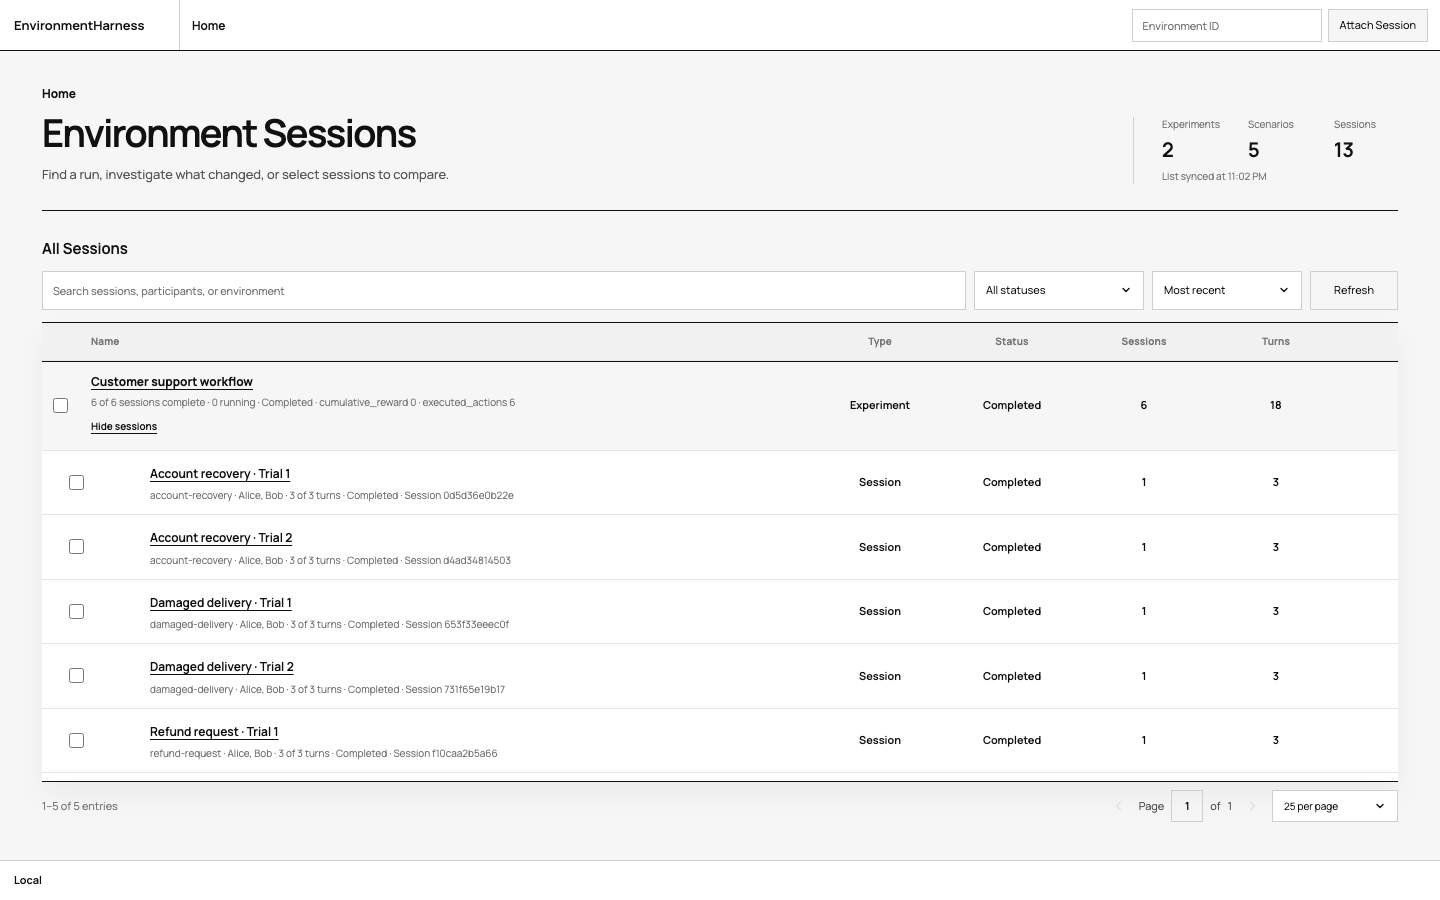
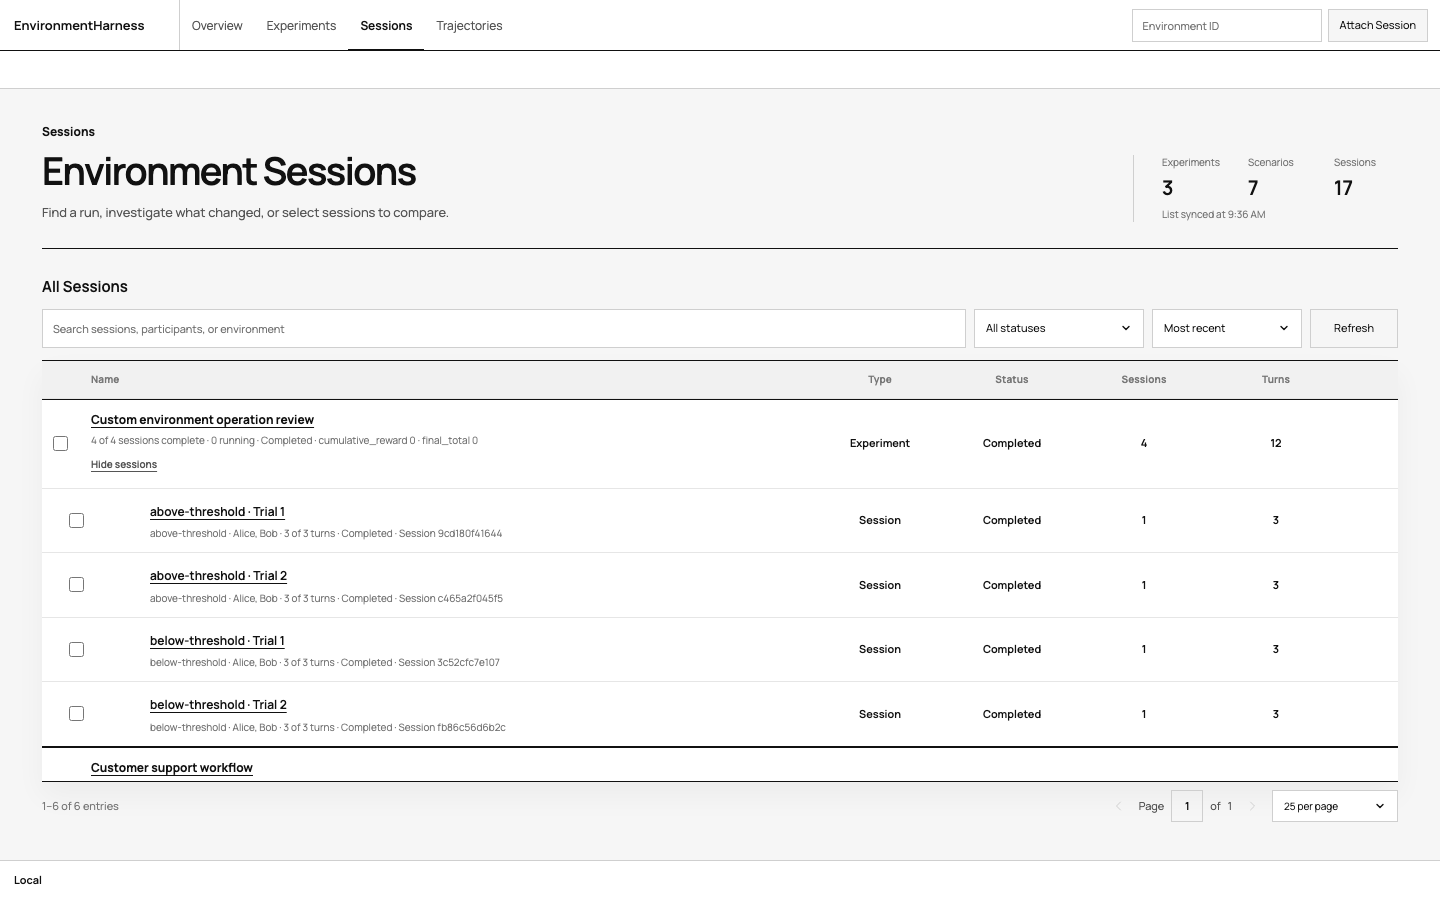
docs: recapture the viewer screenshots and tighten both READMEs
The four README assets showed the pre-rewrite viewer — a single Home
breadcrumb root, the old per-resource tab strips, and a separate Reports tab.
README.md renders on PyPI, so they were publicly wrong. Recaptured at the
documented 1440x900 viewport from the documented stores, with a clean browser
console, and they now show the four global destinations, the contextual left
navigation, and ownership ancestry that stops at the parent. The Progression
image uses a series recorded on 8 of 8 turns rather than the 1-of-8 default,
which rendered an empty chart.

Two stale UI details surfaced while capturing, both now fixed and asserted:

- The collection eyebrow always read "Overview", so the Sessions index said
  "Overview" above "Environment Sessions" while the Sessions tab was
  highlighted. It now names the destination it belongs to.
- A text button labelled "Reports" navigated to Configuration, left over from
  folding the Reports tab into Overview. Relabelled.

Both READMEs now describe the current state rather than narrating a
transition. README.md drops the "run the example, then serve --open" block
that appeared five times, keeps it once in the quickstart, and corrects two
claims the IA rewrite invalidated — session Overview holds scores and
findings, and Configuration holds the frozen experiment.

The TypeScript README was substantially wrong: `client.list()`,
`exportTrajectorySnapshot()`, and `trajectorySourceStatus()` do not exist, and
[…]

diff --git a/packages/typescript/src/app.ts b/packages/typescript/src/app.ts
@@ -1251,7 +1251,8 @@ function showCollection(destination: Destination, heading: string, description: 
   setDestination(destination);
   renderBreadcrumbs();
   paintCollection(panels);
-  el('home-eyebrow').textContent = 'Overview';
+  // The eyebrow names the destination the page belongs to, matching the highlighted tab.
+  el('home-eyebrow').textContent = contextLabel(destination);
   el('home-title').textContent = heading;
   el('home-description').textContent = description;
   el('home-list-title').textContent = 'All Sessions';
@@ -2785,7 +2786,7 @@ el('run-comparison').onclick = () => void attempt(async () => {
 });
 el('copy-id').onclick = () => void attempt(async () => {if (environment) {await navigator.clipboard.writeText(environment.id); message('Environment ID copied.');}});
 el('reports-progression').onclick = () => void attempt(() => setSessionTab('progression'));
-el('reports-records').onclick = () => void attempt(() => setSessionTab('configuration'));
+el('reports-configuration').onclick = () => void attempt(() => setSessionTab('configuration'));
 el<HTMLInputElement>('compare-turn-start').oninput = renderProgression;
 el<HTMLInputElement>('compare-turn-end').oninput = renderProgression;
 el<HTMLSelectElement>('turn-series-select').onchange = renderProgression;

diff --git a/src/environment_harness/viewer/app.js b/src/environment_harness/viewer/app.js
@@ -1424,7 +1424,8 @@ function showCollection(destination, heading, description, panels) {
     setDestination(destination);
     renderBreadcrumbs();
     paintCollection(panels);
-    el('home-eyebrow').textContent = 'Overview';
+    // The eyebrow names the destination the page belongs to, matching the highlighted tab.
+    el('home-eyebrow').textContent = contextLabel(destination);
     el('home-title').textContent = heading;
     el('home-description').textContent = description;
     el('home-list-title').textContent = 'All Sessions';
@@ -3149,7 +3150,7 @@ el('copy-id').onclick = () => void attempt(async () => { if (environment) {
     message('Environment ID copied.');
 } });
 el('reports-progression').onclick = () => void attempt(() => setSessionTab('progression'));
-el('reports-records').onclick = () => void attempt(() => setSessionTab('configuration'));
+el('reports-configuration').onclick = () => void attempt(() => setSessionTab('configuration'));
 el('compare-turn-start').oninput = renderProgression;
 el('compare-turn-end').oninput = renderProgression;
 el('turn-series-select').onchange = renderProgression;

diff --git a/src/environment_harness/viewer/index.html b/src/environment_harness/viewer/index.html
@@ -224,7 +224,7 @@
               <div><h2>Scores and Findings</h2><p>A concise view of what evaluation returned.</p></div>
               <div class="overview-heading-actions">
                 <button id="reports-progression" type="button" class="text-button">Progression</button>
-                <button id="reports-records" type="button" class="text-button">Reports</button>
+                <button id="reports-configuration" type="button" class="text-button">Configuration</button>
               </div>
             </div>
             <div id="reports"><p class="muted">No environment session selected.</p></div>

diff --git a/README.md b/README.md
@@ -40,15 +40,20 @@ environment-harness --store ./environment-sessions quickstart --turns 3
 environment-harness --store ./environment-sessions serve --open
 ```
 
-The demo creates two experiments that expand five scenarios into 10 grouped environment sessions,
-plus three standalone sessions. It records different participant rosters, turn counts, score reports,
-a blocked invalid action, a finding, a checkpoint, and an artifact so every main viewer page has
-useful data. It requires no account, model API key, or paid service. None of its synthetic values
-measure model quality or safety.
+No account, model API key, or paid service. The demo expands five scenarios into 10 grouped
+environment sessions plus three standalone ones, with varied participant rosters, score reports, a
+blocked action, a finding, a checkpoint, and an artifact, so every viewer page has real data. None
+of its synthetic values measure model quality or safety.
 
-`quickstart` writes durable evidence to `./environment-sessions`. `serve` opens that same store through an authenticated API and read-only viewer at `http://127.0.0.1:8765`. The loopback viewer receives read-only local access automatically; `--open` only launches the browser. Refreshing the page or restarting the server does not remove recorded progress. API clients still use an explicit credential from `environment-harness token`. The server binds only to your computer and does not deploy or publish the environment sessions. Press `Ctrl+C` to stop it.
+`quickstart` writes durable evidence to `./environment-sessions`; `serve` opens that same store at
+`http://127.0.0.1:8765`. The server binds to loopback only and publishes nothing. The browser
+receives read-only access automatically — `--open` just launches it — while API clients need an
+explicit credential from `environment-harness token`. Refreshing or restarting loses nothing.
 
-The running service publishes its generated OpenAPI document at `/openapi.json` and interactive reference at `/docs`. The repository checks the committed [`contracts/openapi.json`](contracts/openapi.json) and versioned JSON Schemas in [`contracts/`](contracts/) for drift. [`docs/API-REFERENCE.md`](docs/API-REFERENCE.md) documents endpoints and examples; [`docs/PROTOCOL.md`](docs/PROTOCOL.md) defines the authority, lifecycle, activity-stream, recovery, and evidence semantics that OpenAPI alone cannot express.
+The service publishes OpenAPI at `/openapi.json` and an interactive reference at `/docs`.
+[API reference](docs/API-REFERENCE.md) covers endpoints and examples;
+[Protocol](docs/PROTOCOL.md) covers the authority, lifecycle, recovery, and evidence semantics
+OpenAPI cannot express.
 
 ![The EnvironmentHarness Sessions index showing grouped experiments and their environment sessions](https://raw.githubusercontent.com/kimpton-ai/environment-harness/main/docs/assets/environment-harness-home.png)
 
@@ -93,19 +98,19 @@ environment_session = harness.run(
 print(environment_session.id, environment_session.status)
 ```
 
-Open the recorded environment session with the same store:
+Open it with `environment-harness --store .local/my-environment serve --open`.
 
-```sh
-environment-harness --store .local/my-environment serve --open
-```
+`implementation` is a versioned identifier recorded with the evidence, so a resumed session cannot
+silently run different agent code. Your integration owns prompts, model providers, tools,
+credentials, and spending limits. External JSON programs use `CommandAgent` — see
+[examples/custom_agent.py](examples/custom_agent.py).
 
-The `implementation` string is a versioned identifier recorded with the evidence so a resumed environment session cannot silently run different agent code. Your integration keeps ownership of prompts, model providers, tools, credentials, and spending limits. External JSON programs can use `CommandAgent`; see the [complete source example](https://github.com/kimpton-ai/environment-harness/blob/main/examples/custom_agent.py).
-
-The local Python API and command subprocess are trusted interfaces, not operating-system security sandboxes. Run hostile programs in an isolated backend with explicitly scoped network access.
+The local Python API and command subprocess are trusted interfaces, not OS sandboxes. Run untrusted
+programs in an isolated backend with scoped network access.
 
 ## Run an experiment
 
-`EnvironmentHarness` accepts factories so every environment session receives a fresh environment and fresh agents. A `Scenario[T]` freezes its validated input, optional JSON reference, and metadata. Experiments expand one frozen configuration across every scenario and trial while enforcing shared concurrency limits.
+`EnvironmentHarness` builds a fresh environment and fresh agents for every session. A `Scenario[T]` freezes its validated input, optional JSON reference, and metadata. An experiment expands one frozen configuration across every scenario and trial under a shared concurrency limit.
 
 ```python
 from environment_harness import EnvironmentHarness, Scenario
@@ -132,16 +137,13 @@ result = harness.experiment(
 print(result.completed, result.total)
 ```
 
-Run the complete example and open the same store to review its experiment and child environment sessions:
+[examples/typed_experiment.py](examples/typed_experiment.py) runs this end to end and prints the
+experiment ID, every session ID, scenario and trial labels, deterministic seeds, and the viewer
+path.
 
-```sh
-python examples/typed_experiment.py --store .local/typed-experiment --turns 3
-environment-harness --store .local/typed-experiment serve --open
-```
-
-The example prints the experiment ID, every environment-session ID, scenario/trial labels, deterministic seeds, and the viewer path. See [examples/typed_experiment.py](examples/typed_experiment.py) for the copyable source.
-
-Use `experiment.start()`, `wait()`, `stop()`, and explicit `resume()` for lifecycle control. Standalone environment sessions use `harness.start(...)` or `harness.run(...)`. The low-level coordinator, explicit `ExperimentSpec`, and branching workflow remain available from `environment_harness.advanced`.
+Use `experiment.start()`, `wait()`, `stop()`, and `resume()` for lifecycle control; standalone
+sessions use `harness.start(...)` or `harness.run(...)`. The low-level coordinator, explicit
+`ExperimentSpec`, and branching workflow live in `environment_harness.advanced`.
 
 ## Extend an environment
 
@@ -151,46 +153,34 @@ also needs imperative work such as controlling a game, reading a simulator, or c
 Runtime clients and credentials stay on the Python object; only the operation's name, version, and
 JSON configuration are frozen into evidence.
 
-The complete [custom environment experiment](examples/custom_environment_experiment.py) is a
-runnable extension example. It defines an operation, interleaves it with normal turns through the
-typed `SessionRunner` seam, runs two scenarios across two trials, and records comparable metrics plus
-evidence-linked findings for every environment session.
-
-```sh
-python examples/custom_environment_experiment.py \
-  --store .local/custom-environment-experiment \
-  --turns 3
-environment-harness \
-  --store .local/custom-environment-experiment \
-  serve --open
-```
-
-Open the experiment path printed by the example. The experiment page shows the configuration shared
-by all four environment sessions, including the supplied operation and scoring version.
+[examples/custom_environment_experiment.py](examples/custom_environment_experiment.py) is the
+runnable version: it defines an operation, interleaves it with normal turns through the typed
+`SessionRunner` seam, runs two scenarios across two trials, and records comparable metrics and
+evidence-linked findings. Open the experiment path it prints — that page shows the configuration
+shared by all four sessions, including the operation and scoring version.
 
 ![EnvironmentHarness experiment page showing frozen execution, environment, evaluation, and participant configuration](https://raw.githubusercontent.com/kimpton-ai/environment-harness/main/docs/assets/environment-harness-experiment.png)
 
-A session's Overview shows its frozen configuration, Turns describes operation receipts alongside
-agent and environment evidence, and Progression plots recorded signals over the selected turn range.
+A session's contextual navigation is Overview, Turns, Progression, Trajectory, and Configuration.
+Overview summarizes versioned scores, uncertainty, and evidence-linked findings; Turns shows
+operation receipts alongside agent and environment evidence; Progression plots recorded signals
+across the selected turn range; Configuration holds the frozen experiment and lineage.
 
 ![EnvironmentHarness Progression page showing a recorded signal across eight turns](https://raw.githubusercontent.com/kimpton-ai/environment-harness/main/docs/assets/environment-harness-progression.png)
 
-Reports summarizes versioned scores, uncertainty, and evidence-linked findings.
+![EnvironmentHarness session Overview showing versioned metrics, uncertainty, and findings](https://raw.githubusercontent.com/kimpton-ai/environment-harness/main/docs/assets/environment-harness-reports.png)
 
-![EnvironmentHarness session report showing versioned metrics and uncertainty](https://raw.githubusercontent.com/kimpton-ai/environment-harness/main/docs/assets/environment-harness-reports.png)
-
-The same operation class works in a standalone environment session or a grouped experiment;
-grouping is an orchestration choice, not a different environment type. Start with the
-[environment authoring guide](docs/AUTHORING.md), then use the
+One operation class works in a standalone session or a grouped experiment — grouping is an
+orchestration choice, not a different environment type. See
+[Environment authoring](docs/AUTHORING.md), and the
 [external simulator example](examples/external_environment_experiment.py) when your implementation
 owns a long-lived process or engine connection.
 
 ## Inspect and export trajectories
 
-Environment sessions keep their existing append-only evidence journal. A trajectory is a portable,
-digest-bound view of that trace; it is not another writer. Pauses and resumes appear as causally
-linked execution segments, while collection, execution, termination, and verified outcome remain
-independent states.
+Every session writes an append-only evidence journal. A trajectory is a portable, digest-bound view
+of that journal, not a second writer. Pauses and resumes become causally linked execution segments,
+and collection, execution, termination, and verified outcome are four independent states.
 
 ```python
 trajectory = environment_session.trajectory()
@@ -203,28 +193,22 @@ The in-process SDK is a trusted local interface and needs no credential. Remote 
 an opaque bearer credential; the server resolves it to one of its fixed admin, viewer, or
 participant policies. See [Authentication](docs/AUTHENTICATION.md).
 
-The same interface accepts hash-chained historical records from a namespaced external source.
-Identical retries are idempotent, conflicting identities fail, and source health exposes the
-acknowledged position/hash, backlog, gaps, and capture failures. See
-[Trajectories and historical evidence](docs/TRAJECTORIES.md) for the Python, CLI, and authenticated
-HTTP workflow.
+The same interface imports hash-chained historical records from a namespaced external source.
+Identical retries are idempotent, conflicting identities fail, and source health reports the
+acknowledged position and hash, backlog, gaps, and capture failures. See
+[Trajectories](docs/TRAJECTORIES.md) for the Python, CLI, and HTTP workflow.
 
-Run the complete synthetic walkthrough to record a multi-segment native session, import a separate
-historical source, finalize its independent states, freeze it, and stream the snapshot:
-
-```sh
-python examples/trajectory_walkthrough.py --store .local/trajectory-walkthrough
-environment-harness --store .local/trajectory-walkthrough serve --open
-```
+[examples/trajectory_walkthrough.py](examples/trajectory_walkthrough.py) records a multi-segment
+native session, imports a historical source, finalizes its independent states, freezes it, and
+streams the snapshot.
 
 Training datasets are immutable ordered snapshot selections and require complete, terminal,
 training-entitled evidence with resolved reward chains. Trainer instances are injected locally;
 the browser server never executes them. See [Frozen datasets and local training integrations](docs/TRAINING.md).
 
-Decisions are recorded as evidence here, but the decision runtime is not. `decision.requested` and
-`decision.selected` are core record types with a frozen minimum payload and zero/one/many operation
-links; the selector runtime, candidate registry, and optional adapters are separately owned and are
-not part of this release. See [Decision runtime](docs/DECISION-RUNTIME.md).
+`decision.requested` and `decision.selected` are core record types with a fixed minimum payload and
+zero, one, or many operation links. The selector runtime that produces them is separately owned and
+is not part of this package. See [Decision runtime](docs/DECISION-RUNTIME.md).
 
 ## Scope of this SDK
 
@@ -234,10 +218,9 @@ service — and nothing above it. Private suppliers, marketplace behavior, catal
 tenancy, billing, supplier settlement, hosted trainer orchestration, GPU allocation, deployment
 state, credentials, and customer data are not in this package and are not SDK contracts.
 
-An embedding product authenticates its own users and calls the trusted administrative seam in
-process; EnvironmentHarness owns only the credential's policy and constraints. Adopting these
-contracts may require a downstream pin, adapter, or intentional breaking migration, and product
-storage or APIs do not become SDK contracts merely to avoid that migration. See
+An embedding product authenticates its own users and calls the in-process administrative seam;
+EnvironmentHarness owns only the credential's policy and constraints. Product storage and APIs do
+not become SDK contracts. See
 [Authentication](docs/AUTHENTICATION.md) and [Compatibility](docs/COMPATIBILITY.md).
 
 ## Documentation

diff --git a/packages/typescript/README.md b/packages/typescript/README.md
@@ -1,37 +1,67 @@
 # EnvironmentHarness client
 
-Typed HTTP client for an EnvironmentHarness supplier service. This package uses the same versioned contracts as the Python SDK.
+Typed HTTP client for an EnvironmentHarness service, built on the same versioned contracts as the
+Python SDK.
 
-Install the `environment-harness-client-0.2.4-rc.2.tgz` asset from the GitHub release with `npm install ./environment-harness-client-0.2.4-rc.2.tgz`. A registry publication is not required.
+## Install
+
+Download the `environment-harness-client-0.2.4-rc.2.tgz` asset from the GitHub release, then:
+
+```sh
+npm install ./environment-harness-client-0.2.4-rc.2.tgz
+```
+
+There is no registry publication.
+
+## Use
 
 ```ts
 import { EnvironmentClient } from '@environment-harness/client';
 
-const client = new EnvironmentClient('http://127.0.0.1:8765', process.env.ENVIRONMENT_HARNESS_TOKEN!, true);
-const environments = await client.list({limit: 100});
+const client = new EnvironmentClient(
+  'http://127.0.0.1:8765',
+  process.env.ENVIRONMENT_HARNESS_TOKEN!,
+  true,                       // explicitly permit a loopback HTTP endpoint
+);
+
+const sessions = await client.sessions({ limit: 100 });
+const session = await client.session(sessions.items[0].metadata.id);
 ```
 
-The third argument explicitly permits a local HTTP endpoint. Use HTTPS for remote services. Keep credentials outside source control and public browser bundles. The service enforces credential scope. The client does not restore arbitrary agent processes or qualify hosted execution.
+Use HTTPS for anything remote. Keep credentials out of source control and browser bundles; the
+server enforces credential scope regardless.
 
-Portable trajectory reads use `trajectories()`, `trajectory()`, and cursor-paged
-`trajectoryRecords()`. `trajectorySourceStatus()` is available in read-only deployments; source
-registration, ingestion, and status mutation require an explicitly configured server.
-`trajectorySnapshots()` lists the immutable boundaries shown by the viewer. Snapshot and dataset
+## Surface
+
+| Area | Methods |
+| --- | --- |
+| Resources | `experiments()`, `experiment()`, `scenarioSets()`, `sessions()`, `session()`, `policies()` |
+| Participants | `observe()`, `submit()`, `credentials()` — issues a credential scoped to one session, participant, and generation |
+| Lifecycle | `advance()` resolves at most one ready phase and returns `waiting` while required actions or events are missing; `cancel()` cancels without holding the writer lease and reports unresolved agent work and operations; `createCheckpoint()`, `branch()` |
+| Evidence | `evidence()`, `scores()`, `turnSeries()`, `invocations()`, `activity()`, `activityHierarchy()` |
+| Trajectories | `trajectories()`, `trajectory()`, cursor-paged `trajectoryRecords()`, `trajectorySnapshots()`, `freezeTrajectory()` |
+| Sources | `sourceStatus()` in any deployment; registration, ingestion, and status mutation need a server with ingestion explicitly enabled |
+| Comparison | `compare()` returns typed `metric_groups` with selected report revisions; incompatible units or definitions stay in separate groups |
+
+Collections return `{ items, nextCursor, links }` with an opaque cursor. Snapshot and dataset
 exports are incremental async generators:
 
 ```ts
-for await (const row of client.exportTrajectorySnapshot(snapshotId)) {
+for await (const row of client.streamSnapshotRecords(snapshotId)) {
   process(row);
 }
 ```
 
-Digests are server-authoritative and opaque to this client. The server exposes no trainer-execution
-method.
+## Contract notes
 
-Source and documentation: https://github.com/kimpton-ai/environment-harness
+- Digests are server-authoritative and opaque here; the client never recomputes them.
+- Every method rejects with a typed `ServiceError` only after validating the service's bounded
+  error envelope. Malformed or non-JSON upstream errors stay generic.
+- There is no trainer-execution method. The server reads training receipts and does not run
+  integrations.
+- The client does not restore agent processes or qualify hosted execution.
 
-MIT licensed. See LICENSE.
+`npm test` compiles the package and exercises request shapes and inherited-record reconstruction.
 
-`client.advance(environmentId)` resolves at most one ready externally controlled phase and returns `waiting` while required actions or events are missing. `client.credentials(environmentId, participant, ttl)` issues a scoped participant credential. `client.cancel(environmentId)` cancels a running session without its writer lease and returns unresolved agent work and external operations. `client.compare(ids)` retains the existing response fields and adds typed `metric_groups`, `warnings` and selected report revisions. Incompatible units or definitions appear in separate groups. Legacy reports without definitions remain visible as raw values. Every method rejects with a typed `ServiceError` only after validating the service's bounded standard error envelope; malformed or non-JSON upstream errors remain generic.
-
-Run `npm test` to compile and exercise client request shapes and inherited-record reconstruction. See [SDK compatibility](../../docs/COMPATIBILITY.md) for details.
+Source and documentation: https://github.com/kimpton-ai/environment-harness ·
+[Compatibility](../../docs/COMPATIBILITY.md) · MIT licensed, see LICENSE.

diff --git a/docs/STATUS.md b/docs/STATUS.md
@@ -57,11 +57,6 @@ Landed since the baseline:
 
 Remaining before the candidate:
 
-- **Refresh the four README screenshots.** `docs/assets/environment-harness-{home,experiment,progression,reports}.png`
-  still show the pre-`0.3.0rc1` viewer: a single Home breadcrumb root, the old per-resource tab
-  strips, and a separate Reports tab. The information architecture replaced all three, and
-  `README.md` renders on PyPI, so these are publicly wrong until recaptured. See the capture
-  procedure in [Viewer maintenance](VIEWER-MAINTENANCE.md).
 - Confirm the [downstream-impact appendix](RELEASING.md#downstream-impact-appendix) rows against the
   actual consumer. The rows are derived from this repository's own breaking changes; someone with
   EvalRouter visibility must verify they are complete and that `0.2.4rc2` is its last compatible pin.
